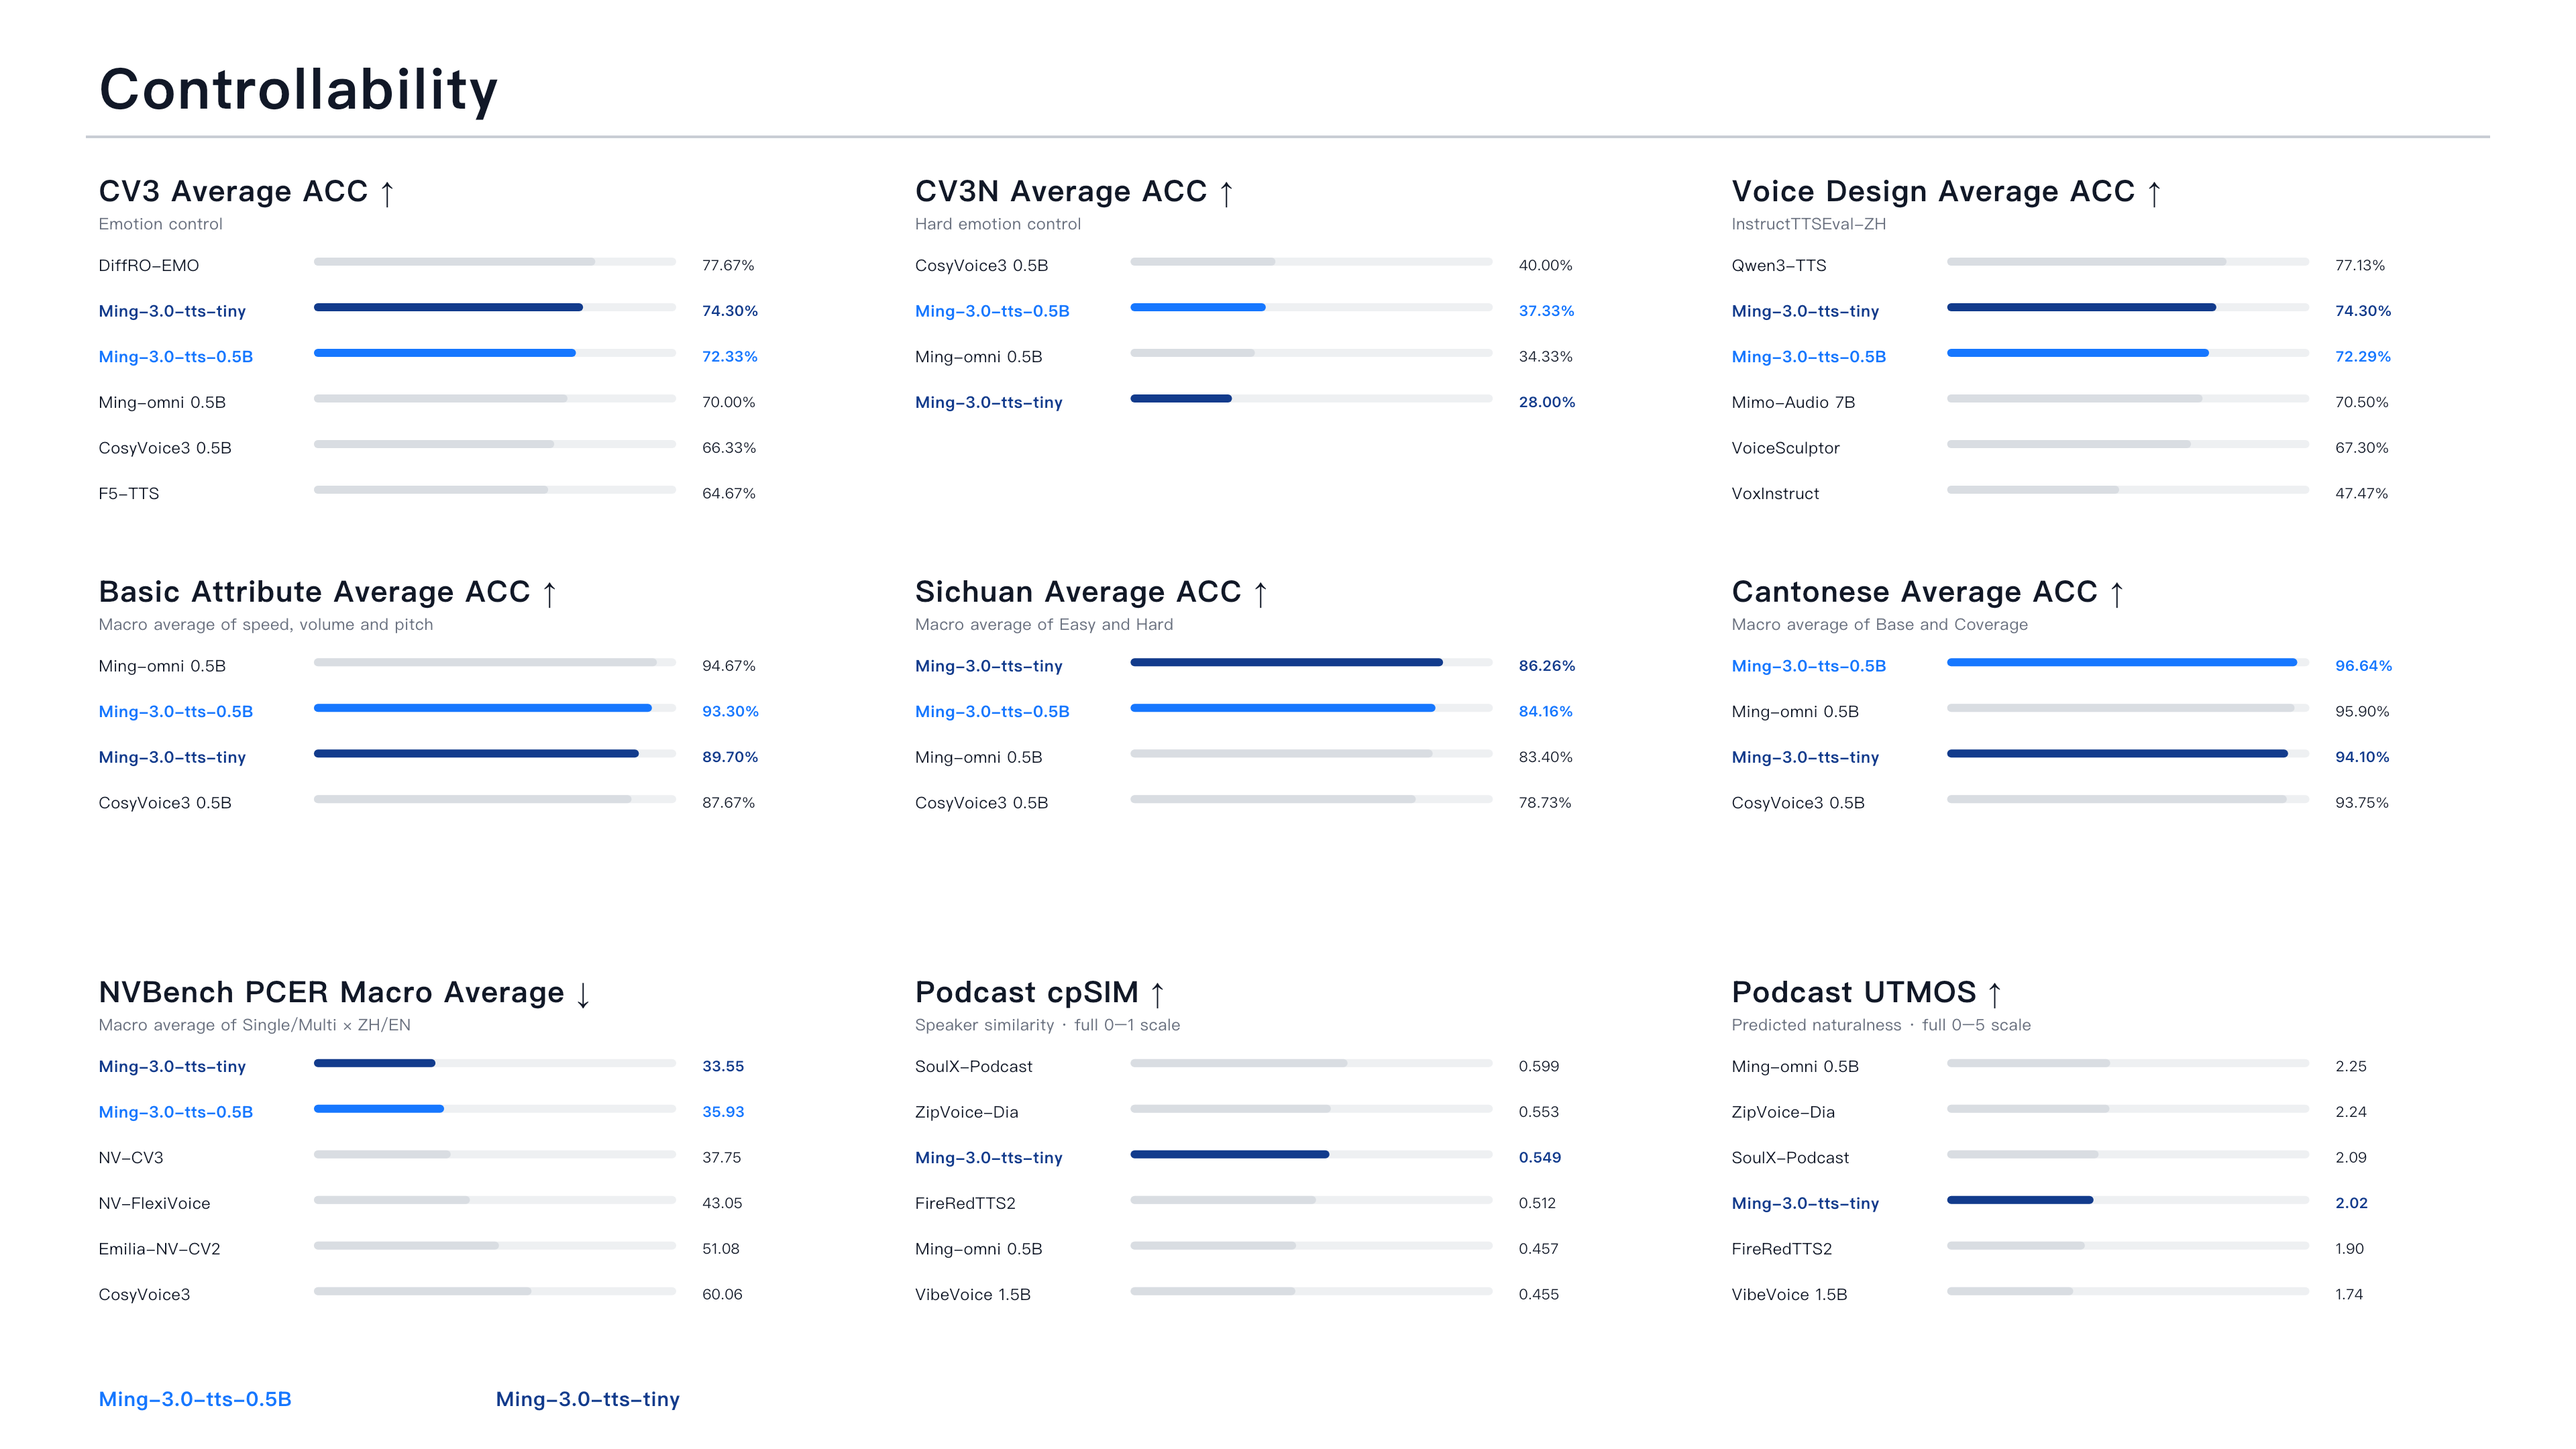
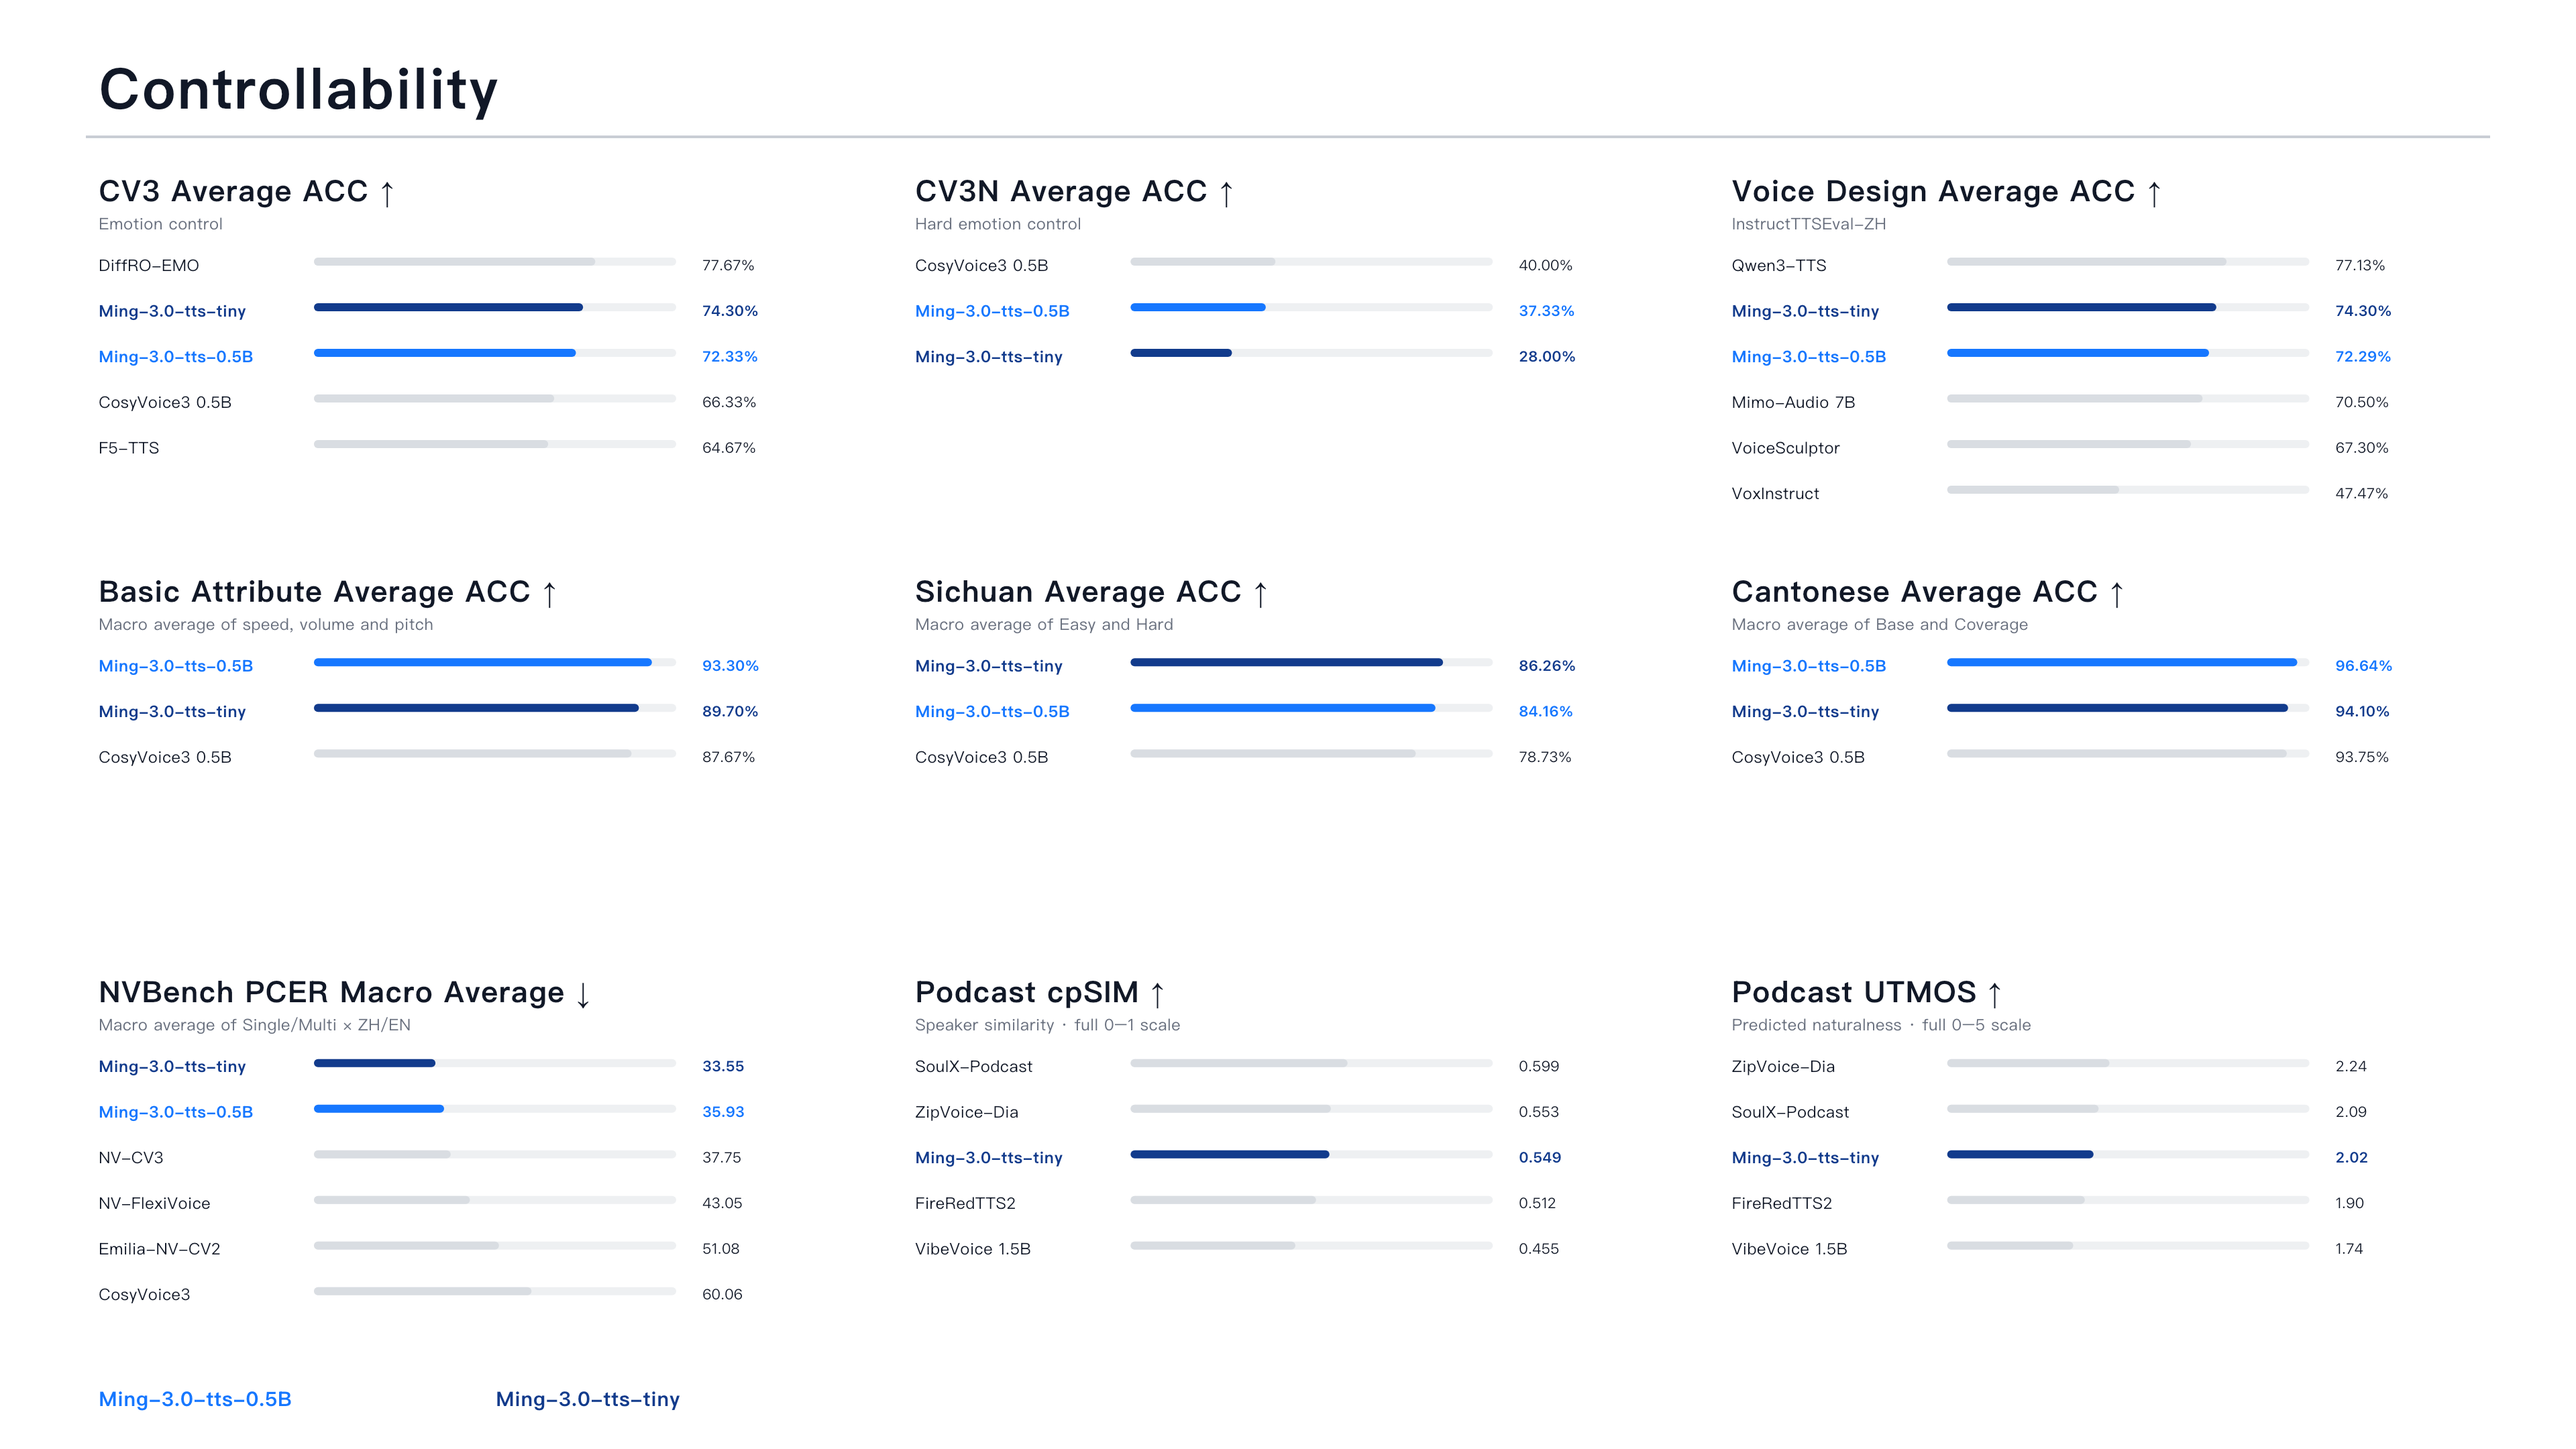
State explicit industry ranks, drop previous-generation comparison

diff --git a/index.html b/index.html
@@ -43,15 +43,15 @@
         performs, and what worked once can be reproduced.
       </p>
       <ul class="abilities">
-        <li>🎨 <b>Start from the character, not from a clip.</b> No reference recording that sounds right? Describe the voice: age, texture, temperament, role. Voice Design renders it with no audio at all. Or pick one of 100+ built-in Chinese voices and four new English ones, or clone from a short reference. 80.50% DSD on InstructTTSEval-ZH (tiny), 0.6 points behind the best system compared.</li>
+        <li>🎨 <b>Start from the character, not from a clip.</b> No reference recording that sounds right? Describe the voice: age, texture, temperament, role. Voice Design renders it with no audio at all. Or pick one of 100+ built-in Chinese voices and four new English ones, or clone from a short reference. On InstructTTSEval-ZH, tiny ranks <b>#2</b> in the industry on the average (74.30%), APS (83.80%) and DSD (80.50%, 0.6 points from SOTA).</li>
         <li>🎬 <b>Direct the line in plain words.</b> <i>"Like telling an old friend about the past: warm, close, a little nostalgic."</i> Freeform takes a sentence of direction instead of a panel of acoustic knobs, and it works on any voice, whether cloned, designed or built-in. Voice Design decides who speaks; Freeform decides how the line is said.</li>
-        <li>💬 <b>Laughs and sighs belong in the script.</b> Fourteen inline tags cover breath, cough, sigh, laughter, hesitation, surprise, and question and confirmation particles. Write them where they happen, in Chinese or English, and the model performs them in the speaker's own voice instead of leaving them for post. Between the two variants, first place on all six NVBench <i>Single</i> metrics among the compared systems.</li>
-        <li>🌐 <b>One character, seven languages, two dialects.</b> Chinese, English, German, Spanish, French, Korean and Japanese, plus Sichuanese and Cantonese, without rebuilding the voice for each one. 0.325% WER on German and 0.725% on Spanish (tiny), the lowest among the compared systems; 6.15% CER and 98.00% dialect accuracy on Cantonese (WSYue-TTS-eval-Base).</li>
-        <li>🎚 <b>Exact when it has to be.</b> For announcements, narration and batch jobs, set emotion, speed, pitch and volume as explicit values and get the same result every time. 99.00% speed accuracy and 93.30% average attribute accuracy at 0.317% WER; 72.33% emotion accuracy on CV3-Eval, and 100% / 88% on its text-related happy and sad sets (tiny).</li>
-        <li>🎙 <b>A whole conversation, not stitched lines.</b> Give tiny one short reference per speaker and a <code>speaker_1:</code> / <code>speaker_2:</code> script, and it performs the dialogue in one pass, turn-taking included. 1.85% CER on the podcast benchmark, 0.01 points behind the best result.</li>
+        <li>💬 <b>Laughs and sighs belong in the script.</b> Fourteen inline tags cover breath, cough, sigh, laughter, hesitation, surprise, and question and confirmation particles. Write them where they happen, in Chinese or English, and the model performs them in the speaker's own voice instead of leaving them for post. On NVBench, the two variants are <b>SOTA on all six single-tag metrics</b> (Chinese and English CER, PCER, OCER), and tiny is <b>SOTA on all three English multi-tag metrics</b>.</li>
+        <li>🌐 <b>One character, seven languages, two dialects.</b> Chinese, English, German, Spanish, French, Korean and Japanese, plus Sichuanese and Cantonese, without rebuilding the voice for each one. <b>SOTA</b> German (0.325%) and Spanish (0.725%) WER (tiny); <b>SOTA</b> Sichuanese CER and dialect accuracy on both WSC-Eval-TTS sets; <b>SOTA</b> Cantonese CER (6.15%) and dialect accuracy (98.00%) on WSYue-TTS-eval-Base (0.5B).</li>
+        <li>🎚 <b>Exact when it has to be.</b> For announcements, narration and batch jobs, set emotion, speed, pitch and volume as explicit values and get the same result every time. 0.5B is <b>SOTA</b> on average attribute accuracy (93.30%), pitch accuracy (86.00%) and WER (0.317%), and <b>#2</b> on speed (99.00%). On CV3 emotion, tiny is <b>SOTA</b> on text-related Happy (100%) and Sad (88%) and 0.5B on Angry (94%); tiny's 74.30% average ranks <b>#2</b>.</li>
+        <li>🎙 <b>A whole conversation, not stitched lines.</b> Give tiny one short reference per speaker and a <code>speaker_1:</code> / <code>speaker_2:</code> script, and it performs the dialogue in one pass, turn-taking included. <b>SOTA</b> 1.85% CER on the podcast benchmark (tiny).</li>
       </ul>
       <p>
-        Two variants: <b>Ming-3.0-tts-0.5B</b>, dense and built on Qwen2.5-0.5B; and <b>Ming-3.0-tts-tiny</b>, an 8B-A1B mixture of experts with 1B active, built on Ling V3. Both cover every ability above except podcast, which is tiny only. Numbers are 0.5B unless marked tiny; both are benchmarked side by side in the repository README.
+        Two variants: <b>Ming-3.0-tts-0.5B</b>, dense and built on Qwen2.5-0.5B; and <b>Ming-3.0-tts-tiny</b>, an 8B-A1B mixture of experts with 1B active, built on Ling V3. Both cover every ability above except podcast, which is tiny only; both are benchmarked side by side in the repository README.
       </p>
     </div>
   </div>
@@ -103,8 +103,8 @@
     <div class="content has-text-justified">
       <p>
         Content accuracy and speaker similarity on Chinese, English and the five new languages, then every
-        control benchmark, both variants against the systems compared. Full tables, the comparison with the
-        previous generation and the known limitations are in the
+        control benchmark, both variants against the systems compared. Full tables, per-metric industry
+        ranks and the known limitations are in the
         <a href="https://github.com/inclusionAI/Ming-3.0-tts#performance">repository README</a>.
       </p>
     </div>
